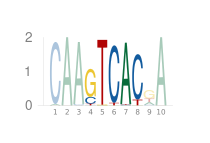
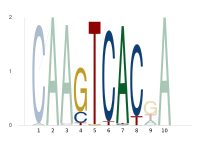
update to take  _margin_=0Plots.mm, tight=true into account for logoplot_with_highlight

diff --git a/README.md b/README.md
@@ -69,6 +69,14 @@ logoplot_with_highlight(pfm, background, highlighted_regions)
 
 ![Highlighted Logo](demo/demo4.png)
 
+With minimal styling (no margins, tight layout):
+
+```julia
+logoplot_with_highlight(pfm, background, [4:8]; _margin_=0Plots.mm, tight=true)
+```
+
+![Tight Highlighted Logo](demo/demo4_tight.png)
+
 ### Protein Motifs
 
 For protein sequences (20 amino acids):
